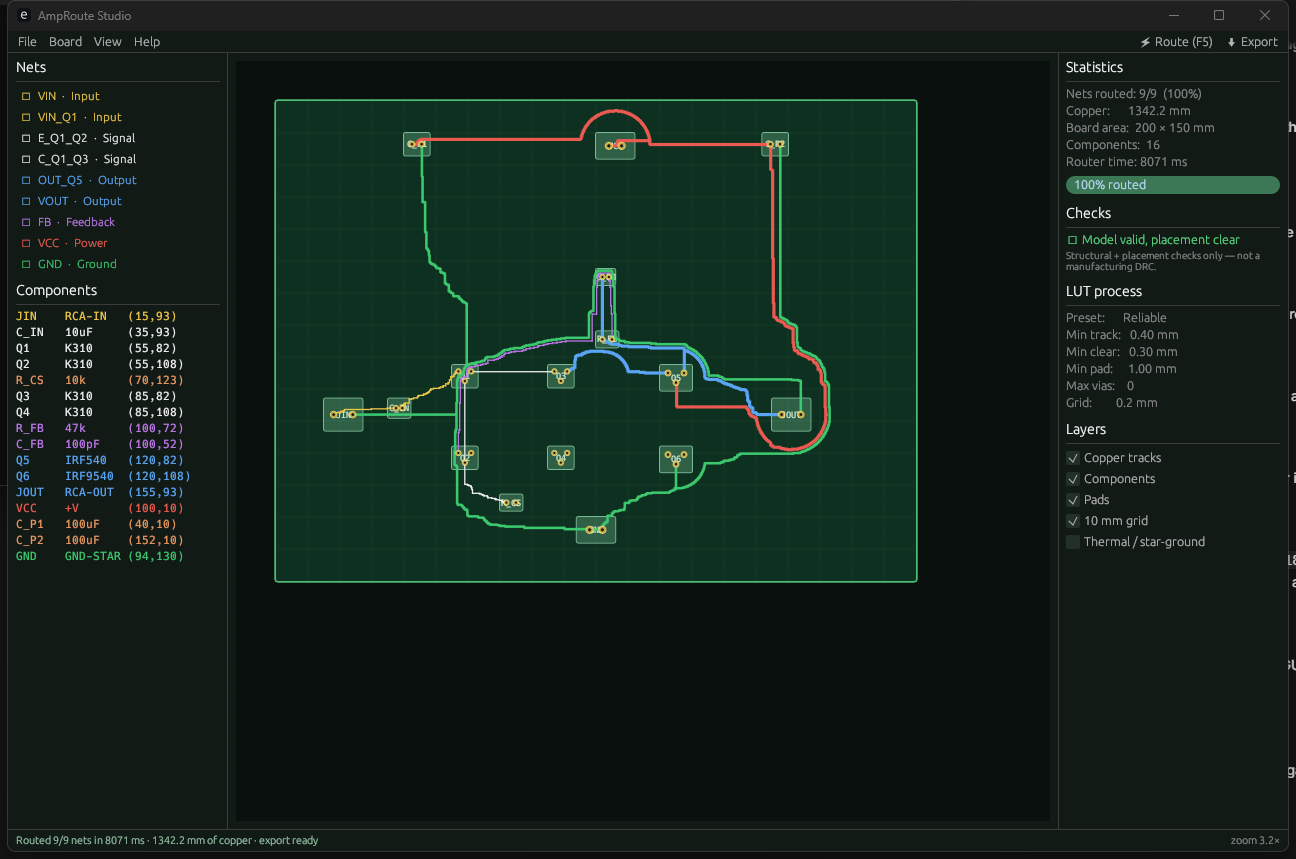
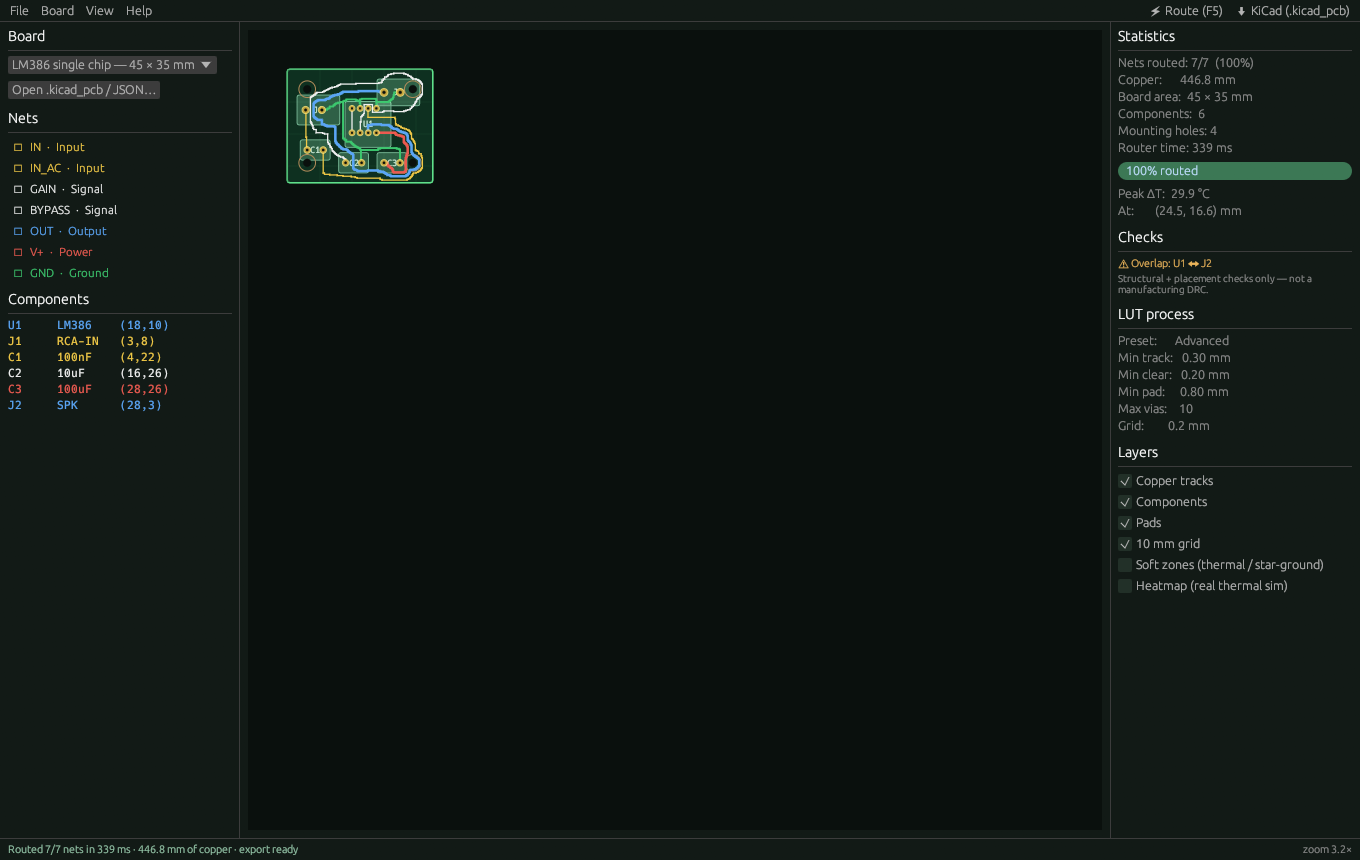
Name an imported board after its file, and refresh the screenshot
Loading a `.kicad_pcb` produced a board always called "imported", so exporting
it wrote imported.kicad_pcb no matter what the user opened. The name now comes
from the file stem; the GUI and the CLI both pass it through.

The screenshot in the README was taken before the GUI was rewritten and showed
a window that no longer exists. Replaced with a frame rendered by the current
build.

Checked against a real 310x170 mm board from another project: it imports, and
the validation complaints about U1 and J2 are genuine — that board's own DRC
reports 739 violations, including copper within the edge clearance.

diff --git a/src/import.rs b/src/import.rs
@@ -60,14 +60,26 @@ pub struct ImportedBoard {
 }
 
 /// Read a `.kicad_pcb` file into the board model.
+///
+/// The board takes the file's name, so an export of *your* board is called
+/// after it instead of the generic default.
 pub fn import_kicad_pcb(path: &str) -> anyhow::Result<ImportedBoard> {
     let text = std::fs::read_to_string(path)
         .map_err(|e| anyhow::anyhow!("cannot read {path}: {e}"))?;
-    import_kicad_pcb_str(&text)
+    let name = std::path::Path::new(path)
+        .file_stem()
+        .map(|s| s.to_string_lossy().to_string())
+        .unwrap_or_else(|| "Imported board".into());
+    import_kicad_pcb_str_named(&text, &name)
 }
 
 /// Read KiCad board text into the board model.
 pub fn import_kicad_pcb_str(text: &str) -> anyhow::Result<ImportedBoard> {
+    import_kicad_pcb_str_named(text, "Imported board")
+}
+
+/// Read KiCad board text, giving the board a name of the caller's choosing.
+pub fn import_kicad_pcb_str_named(text: &str, name: &str) -> anyhow::Result<ImportedBoard> {
     let root = parse(text).map_err(|e| anyhow::anyhow!("not a valid KiCad S-expression: {e}"))?;
     if !root.is("kicad_pcb") {
         anyhow::bail!("file is not a KiCad PCB (root is not `kicad_pcb`)");
@@ -262,12 +274,7 @@ pub fn import_kicad_pcb_str(text: &str) -> anyhow::Result<ImportedBoard> {
         hole.y += offset_y;
     }
 
-    let name = std::path::Path::new("imported")
-        .file_stem()
-        .map(|s| s.to_string_lossy().to_string())
-        .unwrap_or_else(|| "Imported board".into());
-
-    let mut board = Board::new(&name, width, height, LutPreset::reliable());
+    let mut board = Board::new(name, width, height, LutPreset::reliable());
     board.footprints = footprints;
     board.mounting_holes = mounting_holes;
 
@@ -557,5 +564,15 @@ mod tests {
         let router = crate::router::Router::new(0.5, board.width_mm, board.height_mm);
         let result = router.route_board(&board);
         assert_eq!(result.routed_nets.len(), 2, "both nets should route");
+    }
+
+    #[test]
+    fn a_named_import_keeps_the_name() {
+        // Re-exporting your own board must not rename it to a generic default.
+        let imported = import_kicad_pcb_str_named(SAMPLE, "my_preamp").unwrap();
+        assert_eq!(imported.board.name, "my_preamp");
+
+        let plain = import_kicad_pcb_str(SAMPLE).unwrap();
+        assert_eq!(plain.board.name, "Imported board");
     }
 }

diff --git a/src/gui.rs b/src/gui.rs
@@ -174,12 +174,22 @@ impl AmpRouteApp {
                 return;
             }
         };
-        // Try JSON first (our own format), then KiCad PCB.
+        // Try JSON first (our own format), then KiCad PCB. A KiCad board takes
+        // the file's name, so re-exporting it does not lose that.
+        let stem = path
+            .file_stem()
+            .map(|s| s.to_string_lossy().to_string())
+            .unwrap_or_else(|| "Imported board".into());
         let board = if data.trim_start().starts_with('{') {
             Board::from_json(&data).ok()
         } else {
             None
-        }.or_else(|| import::import_kicad_pcb(&data).ok().map(|r| r.board));
+        }
+        .or_else(|| {
+            import::import_kicad_pcb_str_named(&data, &stem)
+                .ok()
+                .map(|r| r.board)
+        });
 
         let Some(board) = board else {
             self.status = "Failed to parse file as JSON or KiCad PCB".into();

diff --git a/src/main.rs b/src/main.rs
@@ -112,7 +112,11 @@ fn load_board(path: &PathBuf) -> Result<amproute_studio::Board> {
             .map_err(|e| anyhow::anyhow!("invalid board JSON in {}: {e}", path.display()));
     }
 
-    let imported = amproute_studio::import_kicad_pcb_str(&data)
+    let stem = path
+        .file_stem()
+        .map(|s| s.to_string_lossy().to_string())
+        .unwrap_or_else(|| "Imported board".into());
+    let imported = amproute_studio::import_kicad_pcb_str_named(&data, &stem)
         .map_err(|e| anyhow::anyhow!("cannot import {}: {e}", path.display()))?;
     if !imported.report.warnings.is_empty() {
         eprintln!("Import notes for {}:", path.display());

diff --git a/src/lib.rs b/src/lib.rs
@@ -30,7 +30,9 @@ pub mod thermal;
 
 pub use board::{Board, Footprint, NetClass, Pad};
 pub use boards::{all_boards, build as build_board, default_board, BoardSpec, BOARD_SPECS};
-pub use import::{import_kicad_pcb, import_kicad_pcb_str, ImportReport, ImportedBoard};
+pub use import::{
+    import_kicad_pcb, import_kicad_pcb_str, import_kicad_pcb_str_named, ImportReport, ImportedBoard,
+};
 pub use placement::PlacementResult;
 pub use router::{RouteSegment, Router, RoutingResult};
 pub use thermal::{ThermalField, ThermalParams};

diff --git a/CHANGELOG.md b/CHANGELOG.md
@@ -30,7 +30,7 @@ ship with the program.
   dissipation into the board, because the heatsink is their thermal path.
 - **CLI**: `--list-boards`, `--board <id>`, `-i` accepting either format, and a
   `.kicad_pcb` written alongside the Gerber set.
-- 80 tests: unit tests plus acceptance tests for all five boards.
+- 81 tests: unit tests plus acceptance tests for all five boards.
 - The routed results are checked into `boards/` as `.kicad_pcb` files, one per
   test board, so they can be opened and checked in KiCad without running the
   program.

diff --git a/README.md b/README.md
@@ -120,7 +120,7 @@ Requires Rust 1.75 or newer.
 
 ```bash
 cargo build --release      # target/release/amproute-studio.exe
-cargo test                 # 80 tests
+cargo test                 # 81 tests
 ```
 
 On Linux, install the usual GUI development packages (`libxkbcommon`,
